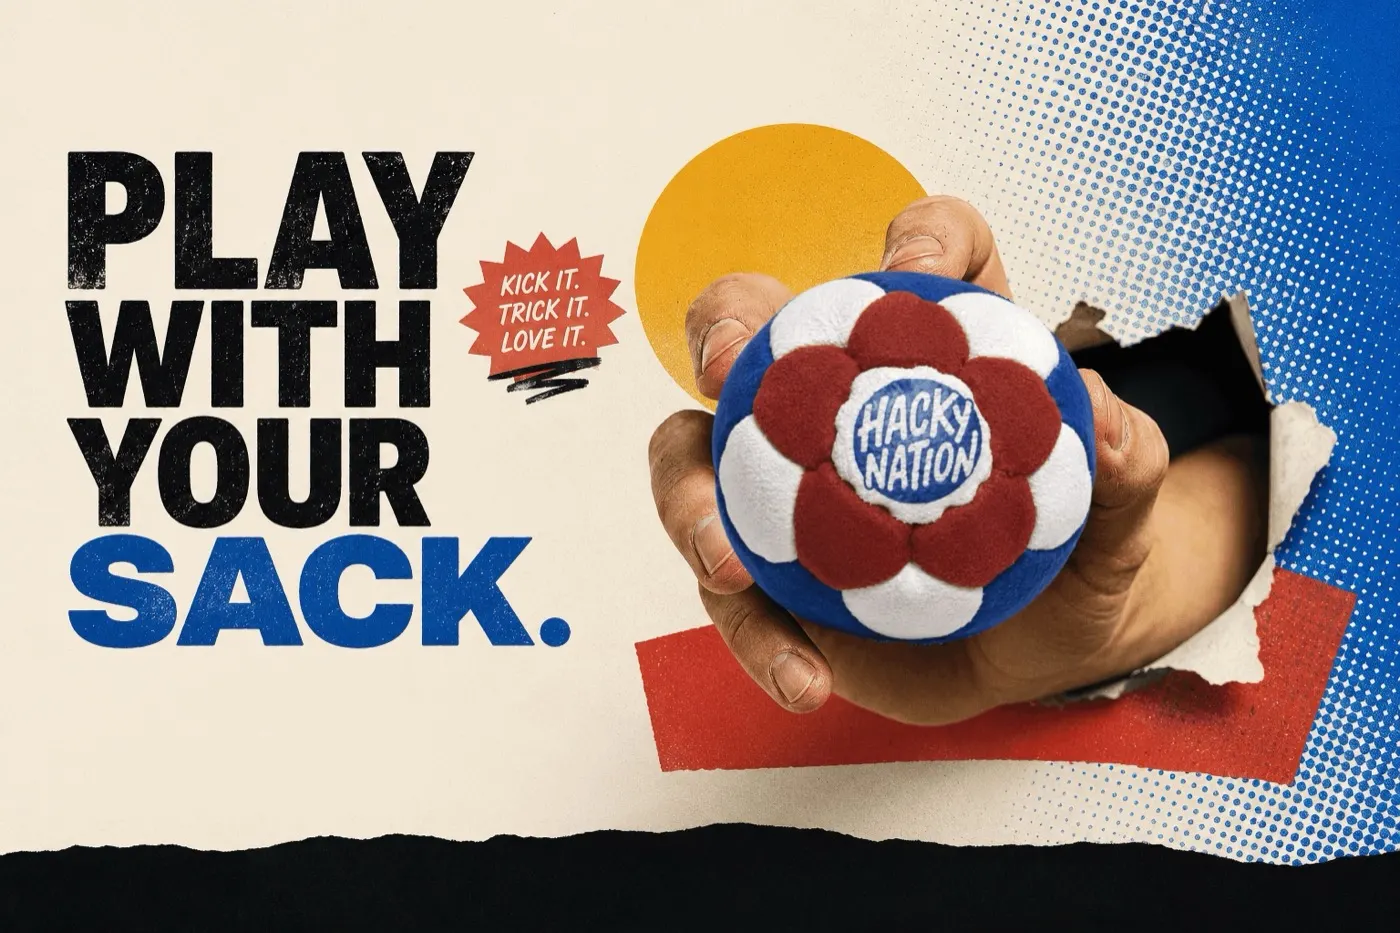
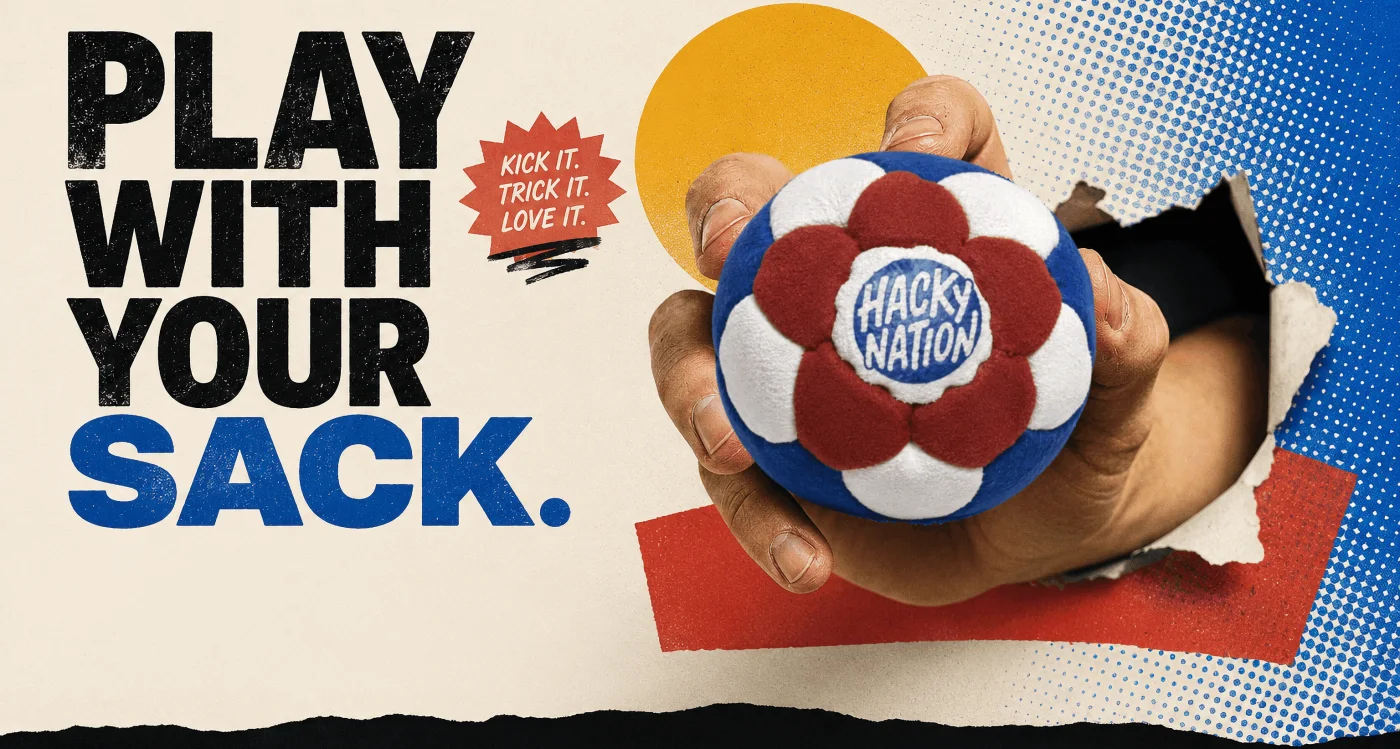
Swap hero art on both breakpoints for the new poster set
Desktop and mobile now each run their own finished poster image
(Branding/computer bg.png, Branding/mobile bg.png) full-bleed as the hero
background, headline baked into the art on both. The <h1> stays in the
document for SEO/screen readers but is sr-only everywhere now, not just
desktop.

Neither new image leaves the top margin the old poster did — both start
their headline almost at row 0 — so the floating nav would otherwise sit
directly on top of the lettering. Added a flat-cream clearance strip sized to
the nav before the art on both breakpoints to fix that.

The mobile art has no open band for overlaid controls (the hand/sack cluster
runs close to full width near the bottom, unlike the desktop crop which
leaves cream under "SACK."), so mobile CTAs, eyebrow copy and seals now sit
below the full-bleed image on the section's own cream instead of over the
artwork — same cream color, reads as one surface.

Dropped the CSS-built mobile collage (halftone/circle/strip layers) and the
hero-hand cutout images it depended on; the new mobile poster replaces all of
it. Desktop CTA row is a single flex container with the guarantee seal now,
rather than two separately-anchored absolute blocks — the previous poster's
composition left enough vertical room to stack them, this one doesn't, and
flex layout can't overlap regardless of how the cream band's width shifts.

diff --git a/src/components/Hero.jsx b/src/components/Hero.jsx
@@ -3,18 +3,20 @@ import { useParallax } from '../lib/useParallax';
 import Seal from './Seal';
 
 /**
- * Two heroes, because the desktop art has the headline baked into it.
+ * Two posters, swapped by breakpoint — both bake the "Play With Your Sack."
+ * headline into the art, so the <h1> stays in the document for SEO and screen
+ * readers but is visually sr-only at every size; it never renders twice.
  *
- *  lg and up — the finished poster (hero-poster-*.webp, 3:2) is the whole hero.
- *              The only HTML over it is the CTA pair; the <h1> stays in the
- *              document for SEO and screen readers, just visually hidden so the
- *              headline never renders twice. The hero box keeps the art's exact
- *              aspect ratio so the buttons can be anchored in percentages and
- *              never drift off the cream onto the baked type.
+ * Neither image leaves a top margin the way the previous poster did, so a
+ * fixed-nav floating straight over row 0 would sit on top of the headline
+ * letters. `heroClear` below is a flat-cream strip, sized to the nav, that
+ * runs before the art at every breakpoint to give the nav somewhere to float.
  *
- *  below lg  — real HTML headline on flat cream, with the text-free scene photo
- *              full-bleed underneath at its own ratio, so the hand is never
- *              cropped out of frame.
+ * The desktop poster (3072×1643) has an open cream band under "SACK." for the
+ * CTAs to sit in, same as before. The mobile poster (2000×3134) doesn't — the
+ * hand-and-sack cluster runs close to full width near the bottom — so on
+ * mobile the CTAs sit below the image instead, on the section's own cream,
+ * which matches the art's cream exactly and reads as one continuous surface.
  */
 export default function Hero() {
   const stageRef = useParallax();
@@ -36,134 +38,80 @@ export default function Hero() {
     </>
   );
 
+  const heroClear = <div aria-hidden="true" className="h-20 w-full bg-paper md:h-24" />;
+
   return (
     <section ref={stageRef} className="relative isolate bg-paper" aria-labelledby="hero-heading">
-      {/* ---------- below lg: HTML headline on cream ----------
-          `lg:contents` dissolves these wrappers at desktop so the <h1> can go
-          sr-only on its own — it must stay in the accessibility tree and the
-          crawlable markup even though the poster art carries the words. */}
-      {/* pt clears the fixed nav, which floats over the art on this page */}
-      <div className="paper-grain relative mx-auto max-w-site px-5 pt-28 md:px-8 lg:contents">
-        <div className="relative z-10 lg:contents">
-          <p className="eyebrow animate-rise-in lg:hidden">Handmade suede footbags</p>
+      <h1 id="hero-heading" className="sr-only">
+        Play With Your Sack.
+      </h1>
 
-          <h1
-            id="hero-heading"
-            className="mt-5 animate-rise-in font-display text-display-hero text-ink [animation-delay:80ms] lg:sr-only lg:mt-0"
-          >
-            <span className="overprint block" data-text="Play" style={{ '--mis-color': 'var(--press-red)' }}>
-              Play
-            </span>
-            <span className="overprint block" data-text="With" style={{ '--mis-color': 'var(--press-yellow)' }}>
-              With
-            </span>
-            <span className="overprint block" data-text="Your" style={{ '--mis-color': 'var(--press-red)' }}>
-              Your
-            </span>
-            <span
-              className="overprint block text-blue"
-              data-text="Sack."
-              style={{ '--mis-color': 'var(--press-ink)', '--mis-x': '4px', '--mis-y': '4px' }}
-            >
-              Sack.
-            </span>
-          </h1>
-
-          <p className="mt-6 max-w-xs animate-rise-in font-body text-body-lg text-ink-soft [animation-delay:160ms] lg:hidden">
-            Premium suede, stitched one at a time. Built for the circle.
-          </p>
-
-          <div className="mt-8 flex animate-rise-in flex-col gap-3 pb-9 sm:flex-row [animation-delay:240ms] lg:hidden">
-            {ctas}
-          </div>
-        </div>
-      </div>
-
-      {/* ---------- below lg: collage rebuilt in CSS ----------
-          The scene photo is gone here — at a phone's aspect ratio it had to be
-          letterboxed or cropped, and either way the composition fought the
-          layout. These are the same elements as real layers: halftone field,
-          yellow circle, red strip, then the hand-and-sack cutout on top. */}
-      <div className="relative isolate w-full overflow-hidden lg:hidden">
-        <div className="relative aspect-[5/6] w-full sm:aspect-[4/3]">
-          {/* halftone field, right edge */}
-          <div
-            aria-hidden="true"
-            className="halftone-coarse parallax-layer absolute inset-y-0 right-0 w-[52%] opacity-70"
-            style={{ '--depth': '2px' }}
-          />
-          <div
-            aria-hidden="true"
-            className="halftone parallax-layer absolute inset-y-0 right-0 w-[46%]"
-            style={{ '--depth': '2px' }}
-          />
-          {/* solid blue bleed at the far edge */}
-          <div aria-hidden="true" className="absolute inset-y-0 right-0 w-[7%] bg-blue" />
-
-          {/* yellow circle, behind the sack */}
-          <div
-            aria-hidden="true"
-            className="parallax-layer absolute right-[26%] top-[10%] aspect-square w-[42%] rounded-full bg-yellow sm:w-[32%]"
-            style={{ '--depth': '3px' }}
-          />
-
-          {/* red angled strip, under the hand */}
-          <div
-            aria-hidden="true"
-            className="parallax-layer absolute bottom-[16%] left-[8%] h-[9%] w-[62%] -rotate-[5deg] bg-red sm:h-[10%] sm:w-[48%]"
-            style={{ '--depth': '4px' }}
-          />
-
+      {/* ---------- below lg: mobile poster, full bleed ---------- */}
+      <div className="lg:hidden">
+        {heroClear}
+        <div className="relative aspect-[2000/3134] w-full">
           <img
-            src="/img/hero-hand-800.webp"
-            srcSet="/img/hero-hand-800.webp 800w, /img/hero-hand-1200.webp 1200w"
-            sizes="(min-width: 640px) 70vw, 96vw"
-            alt="A hand reaching through torn paper holding a handmade Hacky Nation suede footbag"
+            src="/img/hero-mobile-1400.webp"
+            srcSet="/img/hero-mobile-900.webp 900w, /img/hero-mobile-1400.webp 1400w, /img/hero-mobile-2000.webp 2000w"
+            sizes="100vw"
+            alt="Play with your sack — a hand reaching through torn paper holding a handmade Hacky Nation suede footbag"
             width={2000}
-            height={2000}
+            height={3134}
             fetchPriority="high"
             decoding="async"
-            className="parallax-layer absolute left-1/2 top-1/2 h-auto w-[96%] max-w-[480px] -translate-x-1/2 -translate-y-1/2 object-contain sm:w-[74%]"
-            style={{ '--depth': '6px', filter: 'drop-shadow(0 26px 30px rgba(20,17,13,0.32))' }}
+            className="h-full w-full object-cover"
           />
+        </div>
 
-          {/* seals, tucked into the cream at bottom-left */}
-          <div className="absolute bottom-3 left-4 z-10 flex items-end gap-2">
+        <div className="paper-grain relative bg-paper px-5 pb-10 pt-7 md:px-8">
+          <p className="eyebrow animate-rise-in">Handmade suede footbags</p>
+          <p className="mt-3 max-w-xs animate-rise-in font-body text-body-lg text-ink-soft [animation-delay:80ms]">
+            Premium suede, stitched one at a time. Built for the circle.
+          </p>
+          <div className="mt-6 flex animate-rise-in flex-col gap-3 sm:flex-row [animation-delay:160ms]">
+            {ctas}
+          </div>
+          <div className="mt-6 flex animate-rise-in items-center gap-2 [animation-delay:220ms]">
             <Seal variant="paper" size="sm" lines={['PREMIUM', 'SUEDE']} className="shadow-press-sm" />
             <Seal variant="red" burst size="sm" lines={['EST.', '2025']} className="rotate-[-10deg]" />
           </div>
         </div>
       </div>
 
-      {/* ---------- lg and up: the finished poster ---------- */}
-      <div className="relative hidden aspect-[3072/2048] w-full lg:block">
-        <img
-          src="/img/hero-poster-2000.webp"
-          srcSet="/img/hero-poster-1400.webp 1400w, /img/hero-poster-2000.webp 2000w, /img/hero-poster-3072.webp 3072w"
-          sizes="100vw"
-          alt="Play with your sack — a hand reaching through torn paper holding a handmade Hacky Nation suede footbag"
-          width={3072}
-          height={2048}
-          fetchPriority="high"
-          decoding="async"
-          className="h-full w-full object-cover"
-        />
+      {/* ---------- lg and up: desktop poster, full bleed ---------- */}
+      <div className="hidden lg:block">
+        {heroClear}
+        <div className="relative aspect-[3072/1643] w-full">
+          <img
+            src="/img/hero-poster-2000.webp"
+            srcSet="/img/hero-poster-1400.webp 1400w, /img/hero-poster-2000.webp 2000w, /img/hero-poster-3072.webp 3072w"
+            sizes="100vw"
+            alt="Play with your sack — a hand reaching through torn paper holding a handmade Hacky Nation suede footbag"
+            width={3072}
+            height={1643}
+            fetchPriority="high"
+            decoding="async"
+            className="h-full w-full object-cover"
+          />
 
-        {/* Anchored in percentages against the art's own box, so the pair always
-            lands in the cream below the baked "SACK." lockup. */}
-        <div
-          className="parallax-layer absolute bottom-[16.5%] left-[4%] flex animate-rise-in gap-4 [animation-delay:300ms] xl:left-[5%]"
-          style={{ '--depth': '4px' }}
-        >
-          {ctas}
-        </div>
-
-        {/* Rotating guarantee stamp, tucked into the cream under the CTAs. */}
-        <div
-          className="parallax-layer absolute bottom-[6%] right-[6%] hidden xl:block"
-          style={{ '--depth': '7px' }}
-        >
-          <Seal variant="paper" size="lg" lines={['PREMIUM', 'SUEDE', '· 2025 ·']} className="rotate-[-8deg] shadow-press-sm" />
+          {/* Anchored in percentages against the art's own box, so the pair
+              lands in the open cream below the baked "SACK." lockup. */}
+          {/* One flex row — CTAs plus the guarantee stamp, which only joins at
+              xl. Letting flexbox lay them out left-to-right (instead of two
+              separately-anchored absolute blocks) means they can't overlap no
+              matter how the cream band's width shifts with the art. */}
+          <div
+            className="parallax-layer absolute bottom-[10%] left-[4%] flex flex-wrap items-center gap-4 animate-rise-in [animation-delay:200ms] xl:left-[5%]"
+            style={{ '--depth': '4px' }}
+          >
+            {ctas}
+            <Seal
+              variant="paper"
+              size="md"
+              lines={['PREMIUM', 'SUEDE', '2025']}
+              className="hidden rotate-[-6deg] shadow-press-sm xl:grid"
+            />
+          </div>
         </div>
       </div>
     </section>
